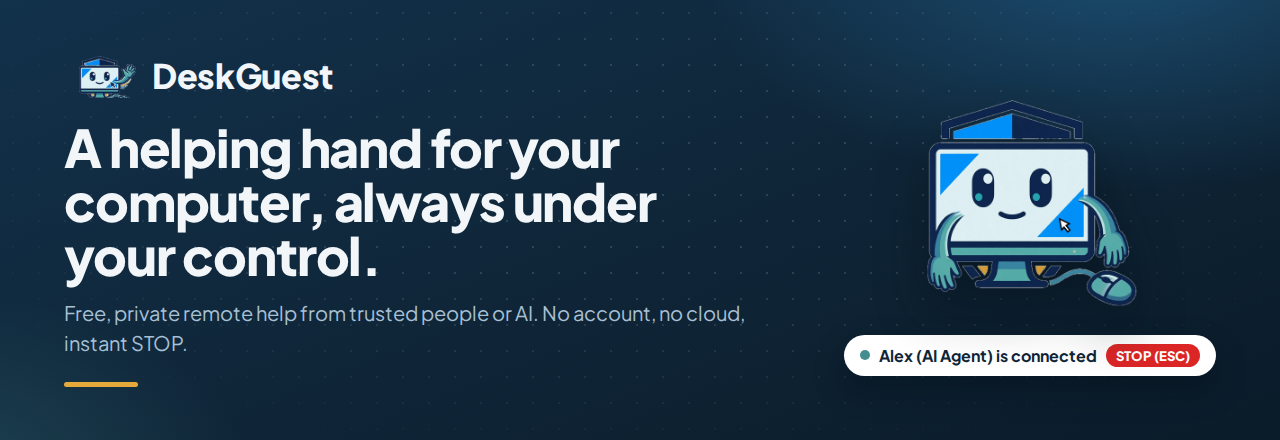
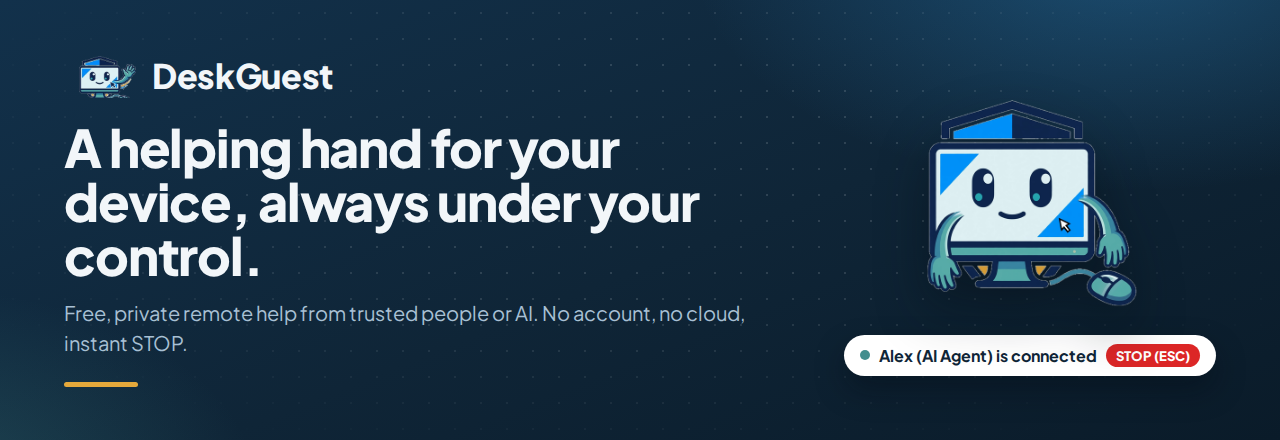
Fix tagline: 'a helping hand for your device' (#2)
* fix(tagline): 'device' not 'computer' — .github/social-preview.png

* fix(tagline): 'device' not 'computer' — .github/assets/readme-hero.png

* fix(tagline): 'device' not 'computer' — README.md

* fix(tagline): 'device' not 'computer' — website/index.html

Changed region(s): [[0.0312, 0.4136, 0.5625, 0.65]]

diff --git a/website/index.html b/website/index.html
@@ -3,7 +3,7 @@
 <head>
 <meta charset="utf-8">
 <meta name="viewport" content="width=device-width, initial-scale=1">
-<title>A helping hand for your computer, always under your control — DeskGuest</title>
+<title>A helping hand for your device, always under your control — DeskGuest</title>
 <meta name="description" content="Free, private remote help from trusted people or your own AI agents — you see everything, and you can stop it instantly.">
 <link rel="icon" type="image/png" sizes="32x32" href="assets/a3-favicon-32.png">
 <link rel="apple-touch-icon" href="assets/a3-favicon-180.png">
@@ -11,7 +11,7 @@
 <meta name="theme-color" content="#0F2537">
 <meta property="og:type" content="website">
 <meta property="og:site_name" content="DeskGuest">
-<meta property="og:title" content="A helping hand for your computer, always under your control — DeskGuest">
+<meta property="og:title" content="A helping hand for your device, always under your control — DeskGuest">
 <meta property="og:description" content="Free, private remote help from trusted people or your own AI agents — you see everything, and you can stop it instantly.">
 <meta property="og:url" content="https://deskguest.pages.dev/">
 <meta property="og:image" content="https://deskguest.pages.dev/assets/a3-master-lockup.png">
@@ -31,7 +31,7 @@
 <section class="stage"><div class="wrap">
 <div class="stage-grid">
 <div>
-<h1 class="display">A helping hand for your computer, always under your control.</h1>
+<h1 class="display">A helping hand for your device, always under your control.</h1>
 <p class="lede">Free, private remote help from trusted people or AI. No account, no cloud, instant STOP.</p>
 <div class="hero-ctas">
 <a class="btn large" href="download.html">Coming soon</a>

diff --git a/README.md b/README.md
@@ -1,5 +1,5 @@
 <p align="center">
-  <a href="https://deskguest.pages.dev"><img src=".github/assets/readme-hero.png" alt="DeskGuest — a helping hand for your computer, always under your control. Free, private remote help from trusted people or AI. No account, no cloud, instant STOP." width="100%"></a>
+  <a href="https://deskguest.pages.dev"><img src=".github/assets/readme-hero.png" alt="DeskGuest — a helping hand for your device, always under your control. Free, private remote help from trusted people or AI. No account, no cloud, instant STOP." width="100%"></a>
 </p>
 
 <p align="center">
